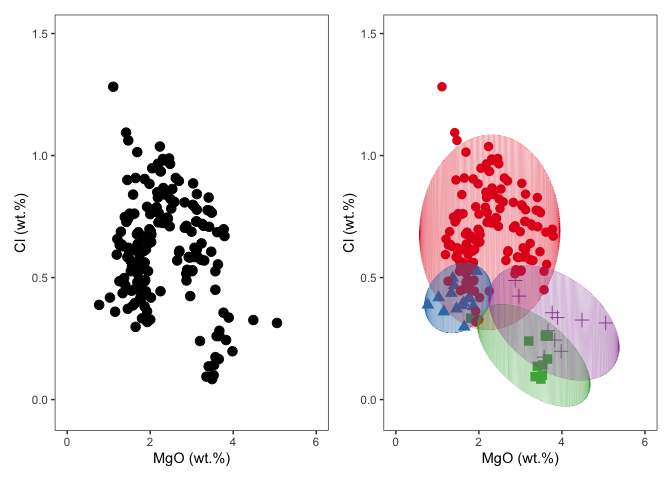
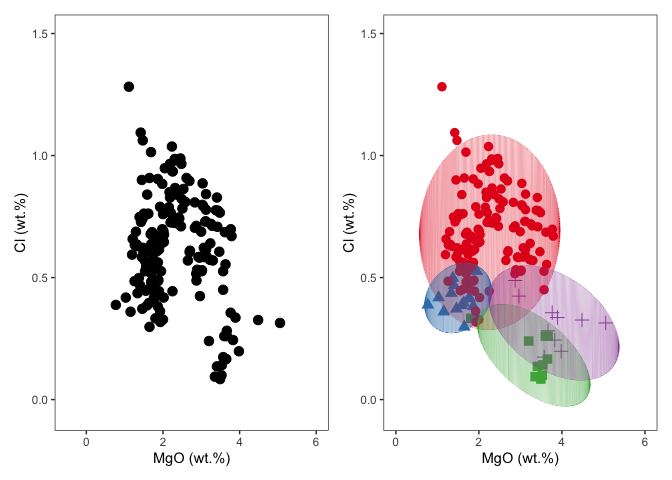
Updates

diff --git a/README.md b/README.md
@@ -72,8 +72,8 @@ df <-
 plot1 <- df %>%
   ggplot() +
   aes(x = MgO, y = Cl) +
-  geom_point(colour = "black", size = 3L) +
-  xlim(0, 6) +
+  geom_point(color = "black", size = 3L) +
+  xlim(-.5, 6) +
   ylim(-0.05, 1.5) +
   scale_color_brewer(palette = "Set1", direction = 1) +
   labs(x = "MgO (wt.%)", y = "Cl (wt.%)") +
@@ -82,15 +82,19 @@ plot1 <- df %>%
 ```
 
 ``` r
-ellipse <- confidence_ellipse(df, x = MgO, y = Cl)
+ellipse_99 <- confidence_ellipse(df, x = MgO, y = Cl, conf_level = 0.99)
+ellipse_95 <- confidence_ellipse(df, x = MgO, y = Cl, conf_level = 0.95)
+ellipse_90 <- confidence_ellipse(df, x = MgO, y = Cl, conf_level = 0.90)
 ```
 
 ``` r
 plot2 <- 
   ggplot() +
-  geom_point(data = ellipse, aes(x = x, y = y), colour = "red", size = .1) +
-  geom_point(dat = df, aes(x = MgO, y = Cl), colour = "black", size = 3L) +
-  xlim(0, 6) +
+  geom_point(data = ellipse_99, aes(x = x, y = y), color = "red", size = .1) +
+  geom_point(data = ellipse_95, aes(x = x, y = y), color = "blue", size = .1) +
+  geom_point(data = ellipse_90, aes(x = x, y = y), color = "green", size = .1) +
+  geom_point(dat = df, aes(x = MgO, y = Cl), color = "black", size = 3L) +
+  xlim(-.5, 6) +
   ylim(-0.05, 1.5) +
   scale_color_brewer(palette = "Set1", direction = 1) +
   labs(x = "MgO (wt.%)", y = "Cl (wt.%)") +
